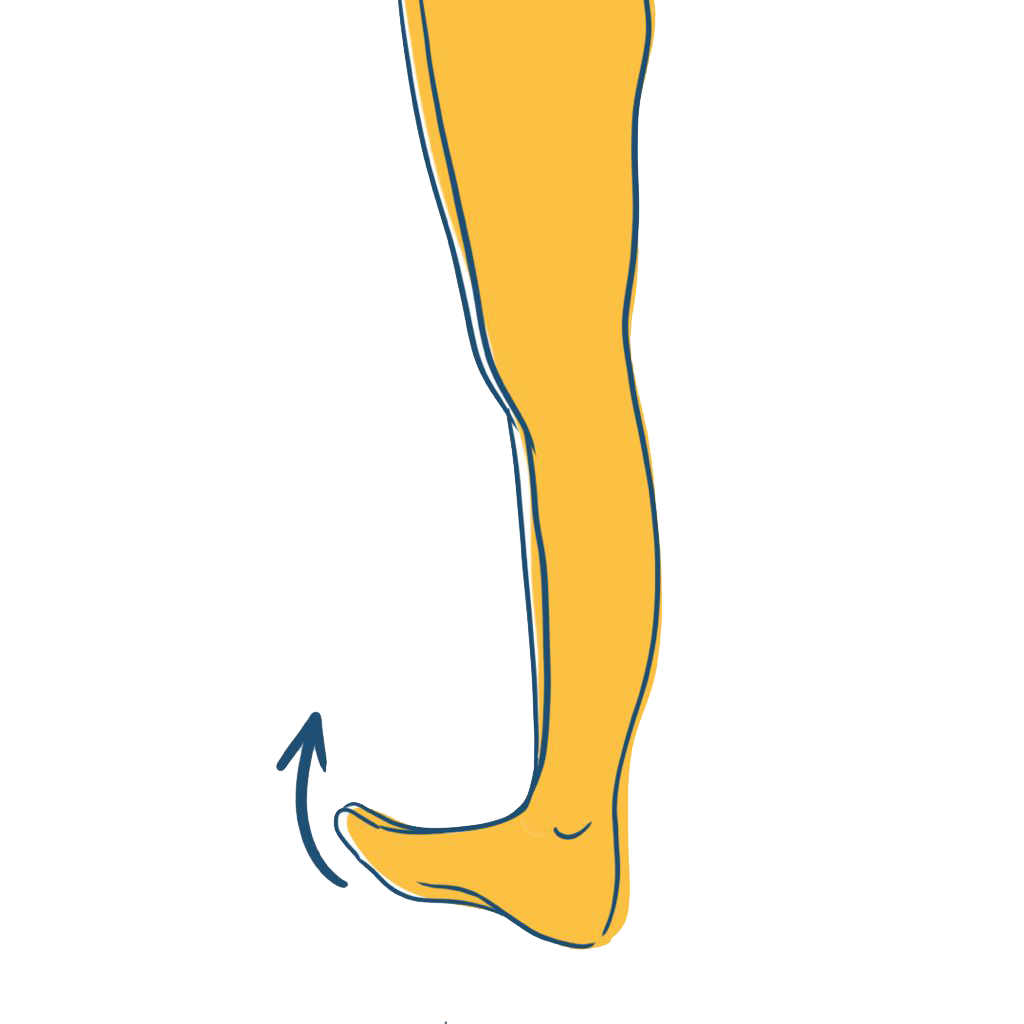
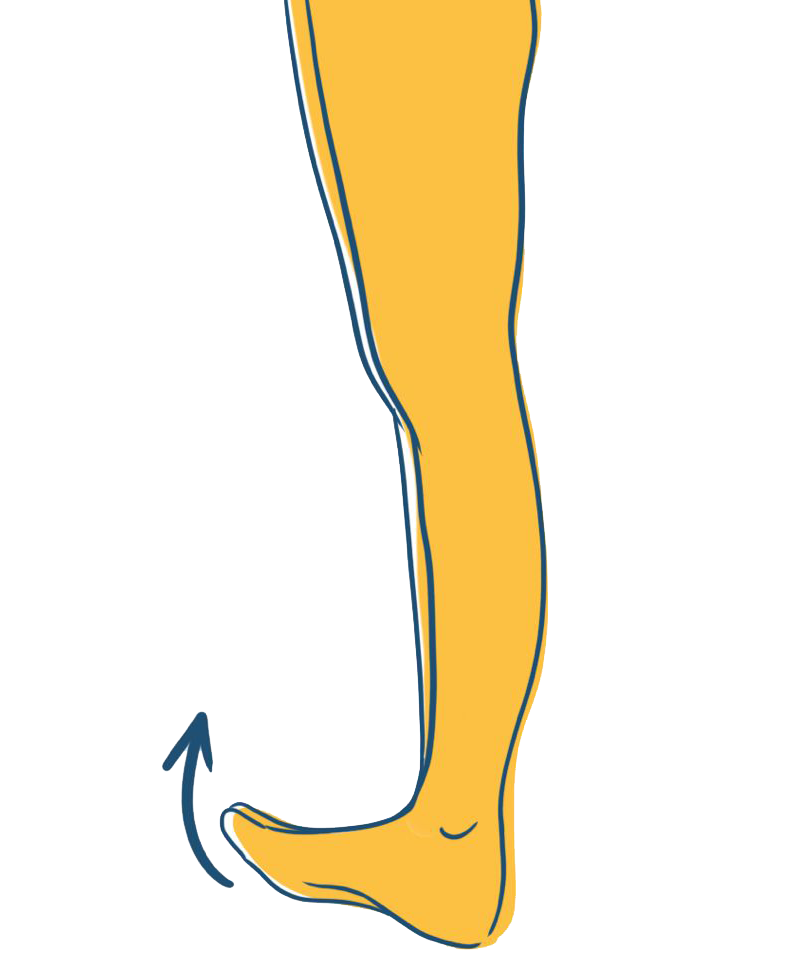
[UPDATE] changing image size when picDialog size chenged

Changed region(s): [[0.2111, 0.0, 0.6935, 0.9866]]

diff --git a/COM_port_reader/Srcs/windownext.cpp b/COM_port_reader/Srcs/windownext.cpp
@@ -926,8 +926,8 @@ void    WindowNext::execPicDialog(void)
     int windowHeight = screenHeight * 9 / 10;
     
     this->_picDialog->setGeometry(10 + screenWidth * 7 / 10 + 5, 30, windowWidth, windowHeight);
-    this->_picDialog->setMinimumHeight(windowHeight / 2);
-    this->_picDialog->setMinimumWidth(windowWidth / 2);
+    this->_picDialog->setMinimumHeight(windowHeight * 3 / 5);
+    this->_picDialog->setMinimumWidth(windowWidth * 3 / 5);
     this->_picDialog->show();
     this->raise();
     
@@ -945,11 +945,10 @@ void    WindowNext::execPicDialog(void)
         });
     
     this->_imageLabel = new QLabel("", this->_picDialog);
-    _gridLayoutPic ->addWidget(_imageLabel, 1, 0, 3, 1, Qt::AlignCenter);
+    _gridLayoutPic ->addWidget(_imageLabel, 1, 0, 6, 1, Qt::AlignCenter);
     
     this->_imageSecondsLabel = new QLabel("", this->_picDialog);
-    this->_imageSecondsLabel->setStyleSheet("font-size: 200px; font-weight: bold;");
-    _gridLayoutPic ->addWidget(_imageSecondsLabel, 4, 0, Qt::AlignCenter);
+    _gridLayoutPic ->addWidget(_imageSecondsLabel, 7, 0, 2, 1, Qt::AlignCenter);
     connect(this->_threadDisplayTimer, &ThreadDisplayTimer::currentSecondAndImgPath, this,
         [=](int currentSecond, QString imgPath)
         {
@@ -960,8 +959,23 @@ void    WindowNext::execPicDialog(void)
 void    WindowNext::showImage(int currentSecond, QString imgPath)
 {
     QPixmap pixmap(imgPath);
-    QPixmap scaledPixmap = pixmap.scaled(550, 550, Qt::KeepAspectRatio);
+
+    int width = _picDialog->size().width();
+    int height = width * pixmap.height() / pixmap.width(); // to keep image size ratio
+
+    // check if "height" is greater than 6 rows of gridLayout (total rows = 9), in which the image is placed
+    if (height > _picDialog->size().height() * 6 / 9)
+     {
+        height = _picDialog->size().height() * 6 / 9;
+        width = height * pixmap.width() / pixmap.height();
+     }
+
+    QPixmap scaledPixmap = pixmap.scaled(height, width * 11 / 10, Qt::KeepAspectRatio); // increase "width" by 10%
     QString imageSeconds = QString::number(currentSecond);
+
+    this->_imageSecondsLabel->setStyleSheet("font-size: " + \
+                                            QString::number(_picDialog->size().height() * 2 / 9) + \
+                                            "px; font-weight: bold;"); // 2/9 = rows of ImageSeconds
     
     this->_imageLabel->setPixmap(scaledPixmap);
     this->_imageSecondsLabel->setText(imageSeconds);
